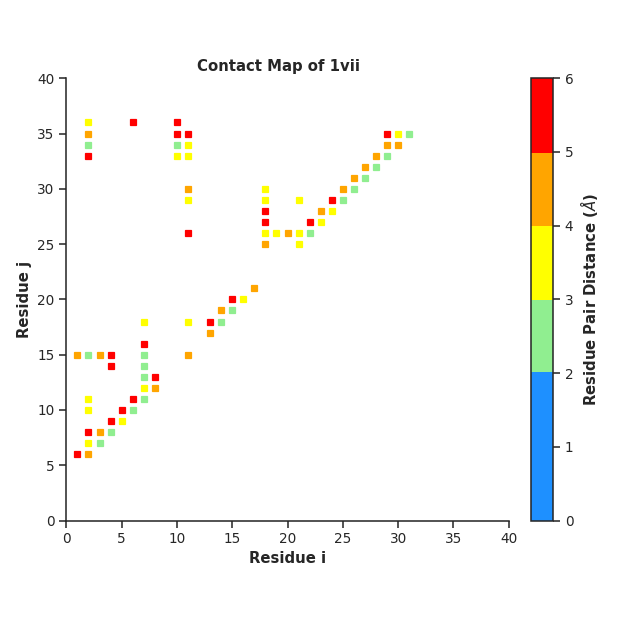
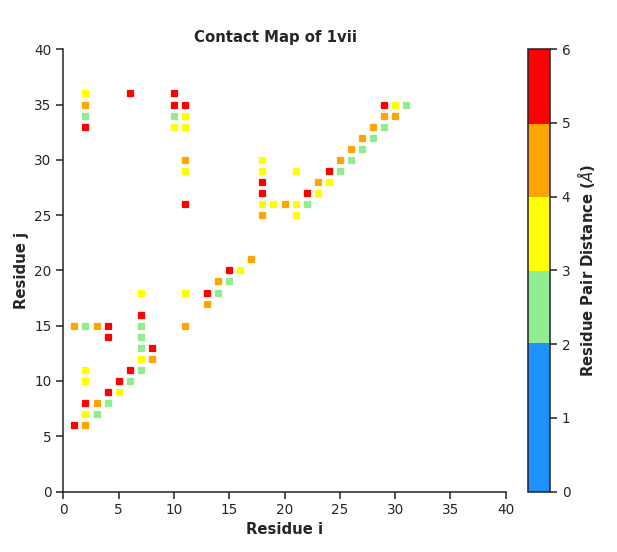
fixed error in quick guide image

diff --git a/pyrexMD/rex.py b/pyrexMD/rex.py
@@ -2,7 +2,7 @@
 # @Date:   05.05.2021
 # @Filename: rex.py
 # @Last modified by:   arthur
-# @Last modified time: 30.11.2021
+# @Last modified time: 01.04.2022
 
 
 """
@@ -492,7 +492,8 @@ def WF_get_system_parameters(wdir, verbose=False, **kwargs):
     return boxsize, maxsol
 
 
-def WF_REX_setup(rex_dirs, boxsize, maxsol, verbose=False, verbose_gmx=False):
+def WF_REX_setup(rex_dirs, boxsize, maxsol, ff='amber99sb-ildn', water='tip3p',
+                 ignh=True, verbose=False, verbose_gmx=False):
     """
     Workflow: REX setup (without energy minimization)
 
@@ -500,6 +501,12 @@ def WF_REX_setup(rex_dirs, boxsize, maxsol, verbose=False, verbose_gmx=False):
         rex_dirs (list): list with rex_dirs (output of rex.get_REX_DIRS())
         boxsize (float): suggested boxsize parameter (output of gmx.WF_getParameter_boxsize())
         maxsol (int): suggested max solution parameter (output of gmx.WF_getParameter_max_solution())
+        ff (str):
+          | force field (see <GROMACS_path>/top/<ff> for valid inputs)
+          | "amber99sb-ildn" etc. for proteins
+          | "amber14sb_OL15" etc. for RNAs
+        water (str): water model
+        ignh (bool): ignore hydrogen
         verbose (bool): show blue log messages (saved file as, saved log as)
         verbose_gmx (bool): show gmx module messages (requires verbose=True)
     """
@@ -512,7 +519,7 @@ def WF_REX_setup(rex_dirs, boxsize, maxsol, verbose=False, verbose_gmx=False):
         # 1) generate topology
         _misc.cprint("\nGenerating topology...", "red")
         with _misc.HiddenPrints(verbose=verbose):
-            protein_gro = _gmx.pdb2gmx(f=decoy_pdb, verbose=False)
+            protein_gro = _gmx.pdb2gmx(f=decoy_pdb, ff=ff, water=water, ignh=ignh, verbose=False)
 
         # 2) generate box
         _misc.cprint(f"Generating box with fixed size ({boxsize}) ...", "red")

diff --git a/pyrexMD/analysis/contacts.py b/pyrexMD/analysis/contacts.py
@@ -2,7 +2,7 @@
 # @Date:   07.05.2021
 # @Filename: contacts.py
 # @Last modified by:   arthur
-# @Last modified time: 16.09.2021
+# @Last modified time: 01.04.2022
 
 """
 .. hint:: This module contains functions for native contact and bias contact analyses.
@@ -467,16 +467,16 @@ def plot_Contact_Map_Distances(ref, NC, NC_dist, pdbid="pdbid", **kwargs):
         del seq[-1]
         return seq
     ############################################################################
-    cmap_Protein = {"dodgerblue": 2.0,
-                    "lightgreen": 3.0,
-                    "yellow": 4.0,
-                    "orange": 5.0,
-                    "red": 6.0}
-    cmap_RNA = {"dodgerblue": 4.0,
-                "lightgreen": 6.0,
-                "yellow": 8.0,
-                "orange": 10.0,
-                "red": 12.0}
+    cmap_Protein = {"tab:blue": 2.0,
+                    "tab:green": 3.0,
+                    "tab:olive": 4.0,
+                    "tab:orange": 5.0,
+                    "tab:red": 6.0}
+    cmap_RNA = {"tab:blue": 4.0,
+                "tab:green": 6.0,
+                "tab:olive": 8.0,
+                "tab:orange": 10.0,
+                "tab:red": 12.0}
     default = {"cmap": None,
                "vmin": None,
                "vmax": None,
